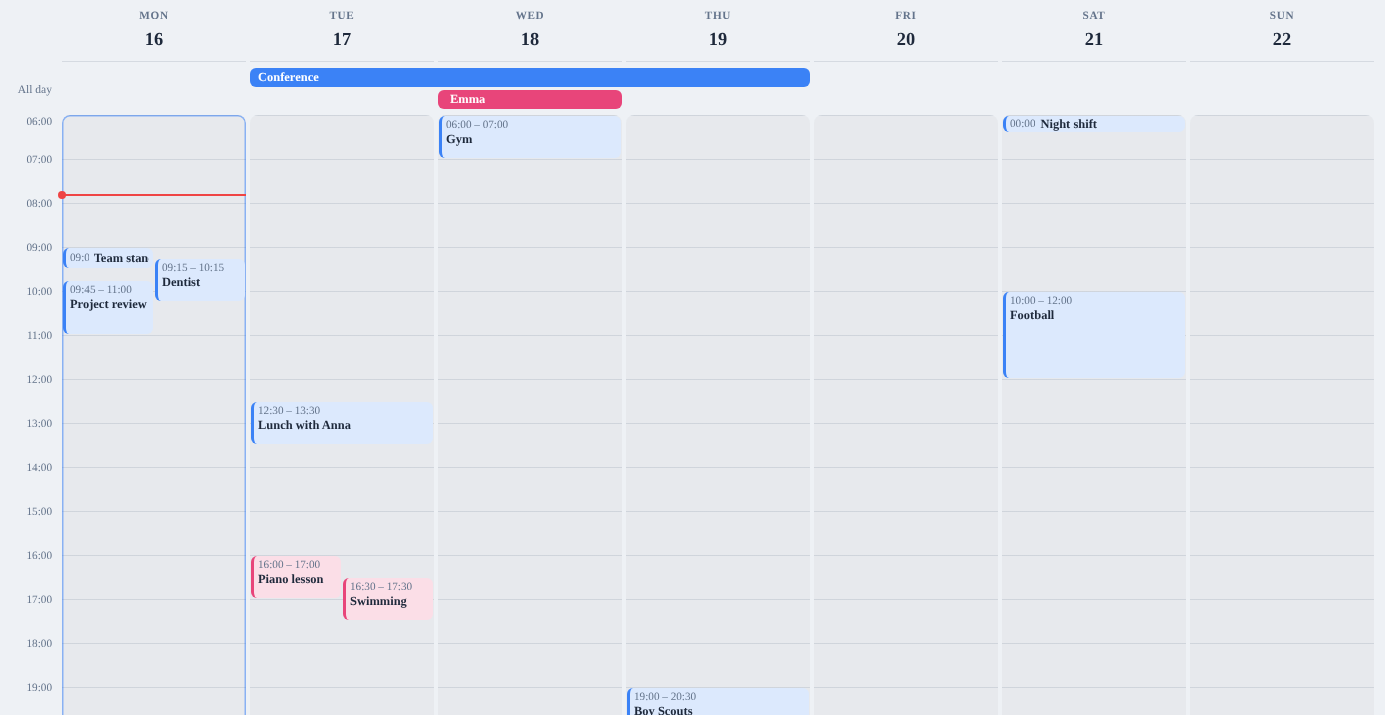
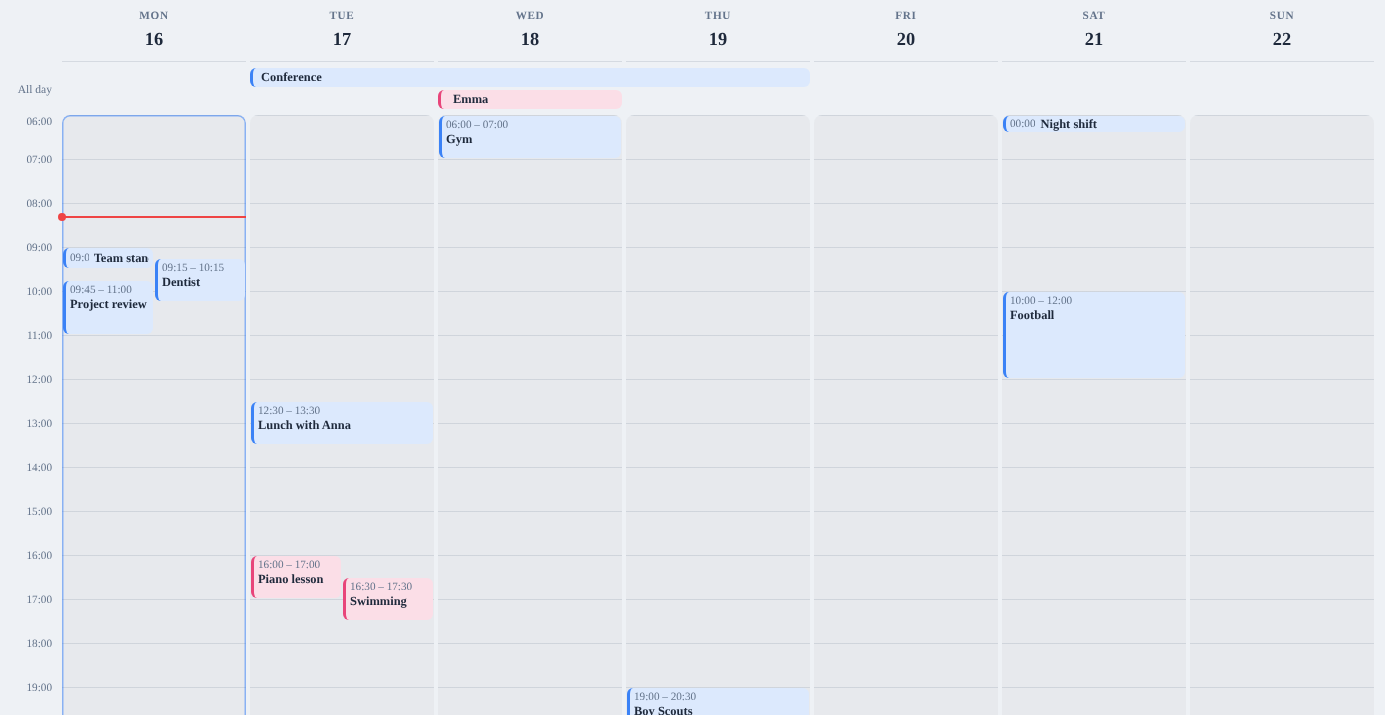
1.20.1-beta.2: softer all-day strip in Timeline week (#24)
All-day events in the Timeline week's top strip now use the same light
tint and coloured left edge as timed events instead of a solid fill.

Claude-Session: https://claude.ai/code/session_01ToCkiVDgPpQrDFE5fNqtsE

Changed region(s): [[0.1863, 0.0923, 0.5899, 0.1538], [0.031, 0.2769, 0.0621, 0.3077]]

diff --git a/dist/home-calendar-card.js b/dist/home-calendar-card.js
@@ -8,7 +8,7 @@
  * https://github.com/mimikm/Home-Calendar-Card
  */
 
-const CARD_VERSION = "1.20.1-beta.1";
+const CARD_VERSION = "1.20.1-beta.2";
 
 const DEFAULT_COLORS = ["#4285F4", "#EA4335", "#34A853", "#F9AB00", "#A142F4", "#24C1E0", "#F06292", "#FF7043"];
 
@@ -5721,11 +5721,12 @@ dialog[open] { display: flex; flex-direction: column; animation: pop .18s ease-o
 .tl-all { row-gap: 3px; align-items: center; }
 .tl-alllbl { font-size: .72rem; color: var(--hcc-muted); text-align: right; padding-right: 6px; align-self: center; }
 .tlbar { display: flex; align-items: center; gap: 4px; min-width: 0; overflow: hidden; padding: 2px 8px; border-radius: 6px; font-size: .78rem; font-weight: 600;
-  background: var(--c); color: #fff; cursor: pointer; white-space: nowrap; }
+  background: color-mix(in srgb, var(--c) 18%, var(--hcc-card, #fff)); border-left: 3px solid var(--c); color: var(--hcc-text); cursor: pointer; white-space: nowrap; box-sizing: border-box; }
+.tlbar ha-icon { color: var(--c); }
 .tlbar span { overflow: hidden; text-overflow: ellipsis; }
 .tlbar ha-icon { --mdc-icon-size: 14px; flex: none; }
-.tlbar.ban { background: color-mix(in srgb, var(--c) 22%, transparent); color: var(--hcc-text); }
-.tlbar.cl { border-top-left-radius: 0; border-bottom-left-radius: 0; }
+.tlbar.ban { background: color-mix(in srgb, var(--c) 10%, var(--hcc-card, #fff)); border-left-style: dashed; }
+.tlbar.cl { border-top-left-radius: 0; border-bottom-left-radius: 0; border-left-width: 0; }
 .tlbar.cr { border-top-right-radius: 0; border-bottom-right-radius: 0; }
 .tlbar.past { opacity: .55; }
 .tl-body { height: calc(var(--tln) * 44px); }
